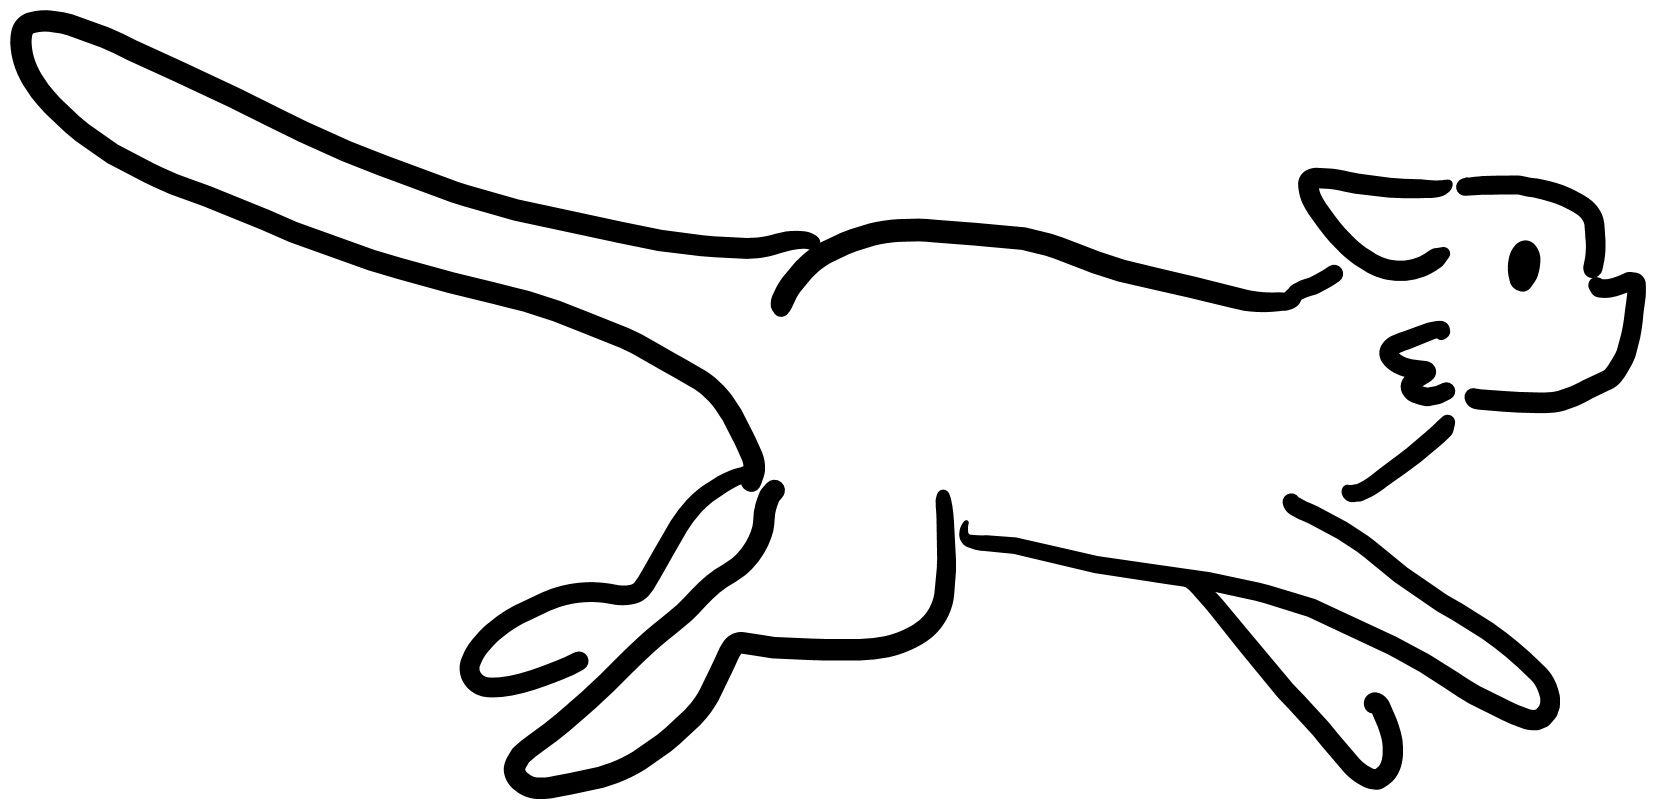
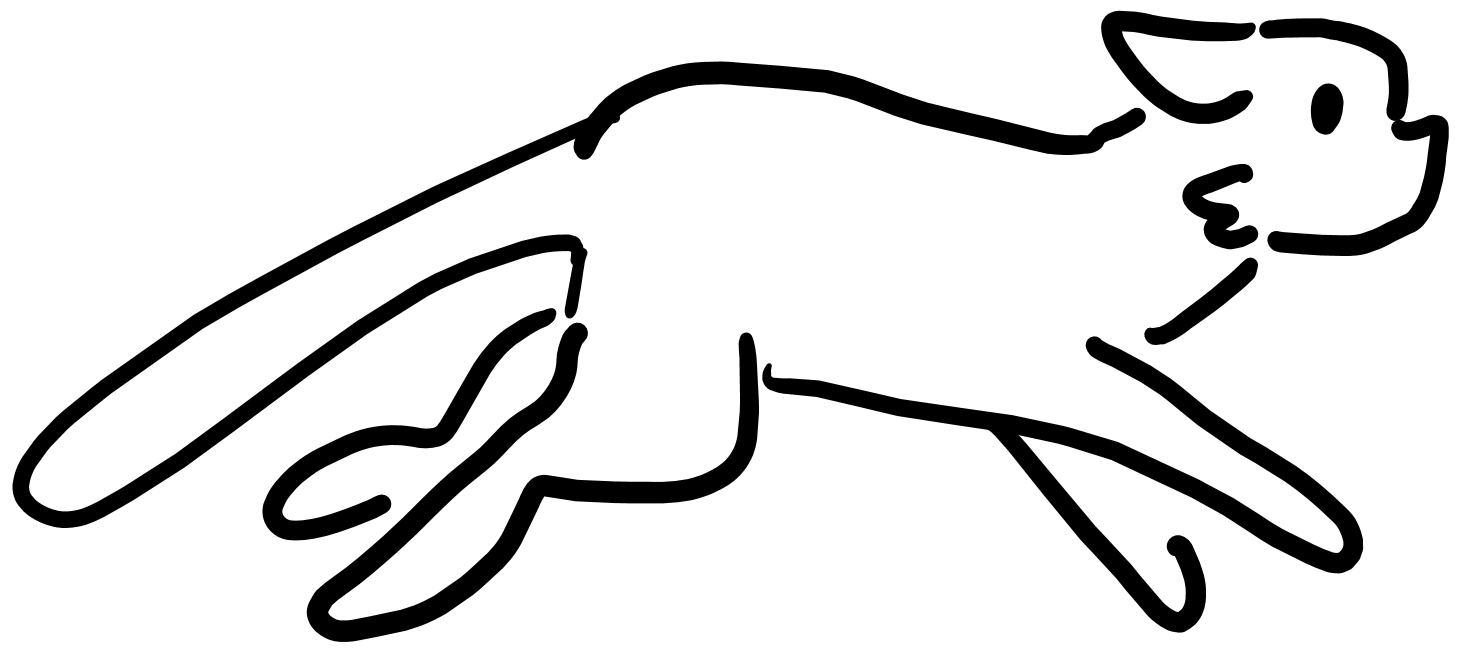
taller jump

Changed region(s): [[0.0, 0.0, 1.0, 1.0], [0.0, 0.6748, 0.1232, 0.8282], [0.0308, 0.6135, 0.0616, 0.6748]]

diff --git a/src/components/Cat.js b/src/components/Cat.js
@@ -1,12 +1,16 @@
 import React, { useEffect, useRef, useState } from "react";
 import "./Cat.css";
 
+// variables that must match with Cat.css
 // cat_1 dimensions: 1658 x 800, using 55 x 27
 const cat_1_width = 55; 
 const cat_1_height = 27;
 // cucumber_1 dimensions: 1870 x 639, using 31 x 10
 const cucumber_1_width = 31; 
 const cucumber_1_height = 10;
+
+// timeout, in terms of seconds
+const timeout_css = 0.6;
 
 function Cat() {
   //ref to get 'cat' html element in js
@@ -22,7 +26,7 @@ function Cat() {
       catRef.current.classList.add("jump");
       setTimeout(() => {
         catRef.current.classList.remove("jump");
-      }, 300);
+      }, timeout_css * 1000);
     }
   };
 
@@ -30,33 +34,35 @@ function Cat() {
   //if yes, then game over.
   useEffect(() => {
     const isAlive = setInterval(() => {
-      // get current cat position
-      const catTop = parseInt(
-        getComputedStyle(catRef.current).getPropertyValue("top")
-      );
-      const catLeft = parseInt(
-        getComputedStyle(catRef.current).getPropertyValue("left")
-      );
+      if (catRef.current && cucumberRef.current) {
+        // get current cat position
+        const catTop = parseInt(
+          getComputedStyle(catRef.current).getPropertyValue("top")
+        );
+        const catLeft = parseInt(
+          getComputedStyle(catRef.current).getPropertyValue("left")
+        );
 
-      // get current cucumber position
-      let cucumberLeft = parseInt(
-        getComputedStyle(cucumberRef.current).getPropertyValue("left")
-      );
-      let cucumberTop = parseInt(
-        getComputedStyle(cucumberRef.current).getPropertyValue("top")
-      );
+        // get current cucumber position
+        let cucumberLeft = parseInt(
+          getComputedStyle(cucumberRef.current).getPropertyValue("left")
+        );
+        let cucumberTop = parseInt(
+          getComputedStyle(cucumberRef.current).getPropertyValue("top")
+        );
 
-      // detect collision
-      if (
-        cucumberLeft < catLeft + cat_1_width &&
-        cucumberLeft + cucumber_1_width > catLeft &&
-        cucumberTop < catTop + cat_1_height &&
-        cucumberTop + cucumber_1_height > catTop
-      ) {
-        alert("Game Over! Your Score: " + score);
-        setScore(0);
-      } else {
-        setScore(score + 1);
+        // detect collision
+        if (
+          cucumberLeft < catLeft + cat_1_width &&
+          cucumberLeft + cucumber_1_width > catLeft &&
+          cucumberTop < catTop + cat_1_height &&
+          cucumberTop + cucumber_1_height > catTop
+        ) {
+          alert("Game Over! Your Score: " + score);
+          setScore(0); // Reset score to 0
+        } else {
+          setScore(prevScore => prevScore + 1); // Increment score
+        }
       }
     }, 10);
 

diff --git a/src/components/Cat.css b/src/components/Cat.css
@@ -18,7 +18,7 @@
 }
 
 .jump {
-  animation: jump 0.3s linear;
+  animation: jump 0.5s linear;
 }
 
 @keyframes jump {
@@ -27,19 +27,19 @@
   }
 
   30% {
-    top: 178px;
+    top: 128px; /* Higher jump */
   }
 
   50% {
-    top: 148px;
+    top: 98px; /* Peak of the jump */
   }
 
-  80% {
-    top: 178px;
+  70% {
+    top: 128px; /* Start descending */
   }
 
   100% {
-    top: 198px;
+    top: 198px; /* Back to the ground */
   }
 }
 
